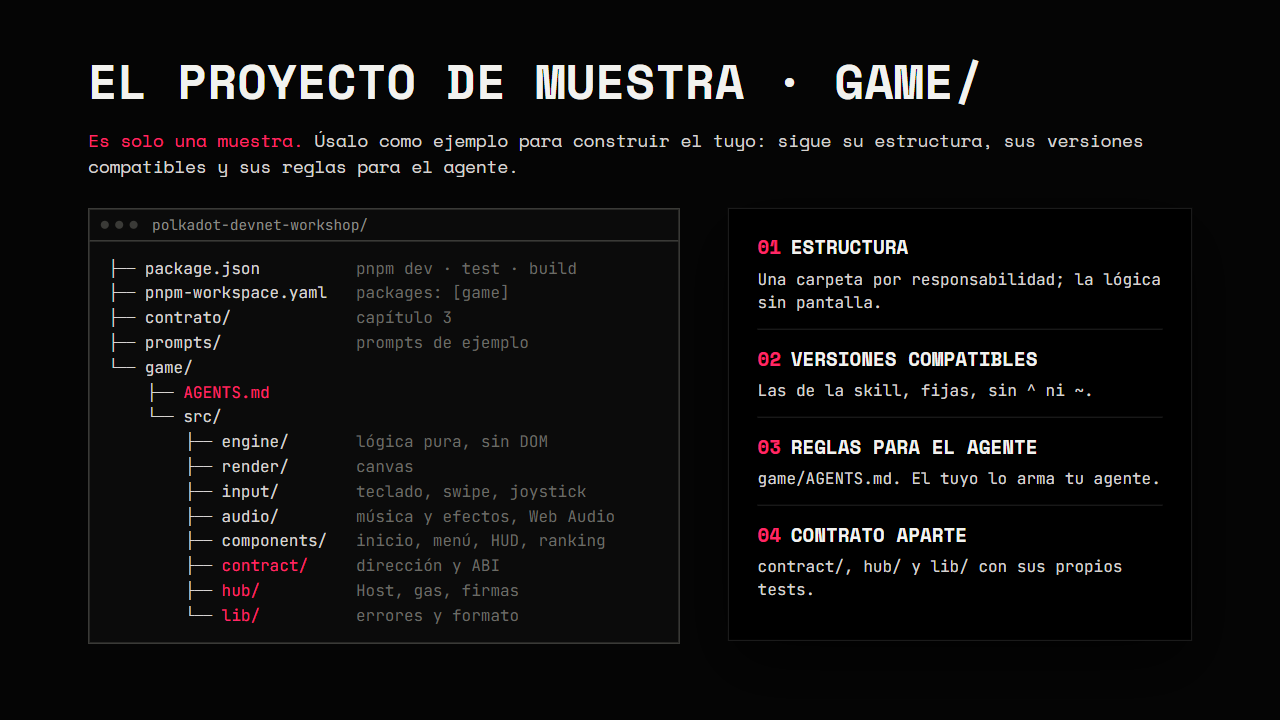
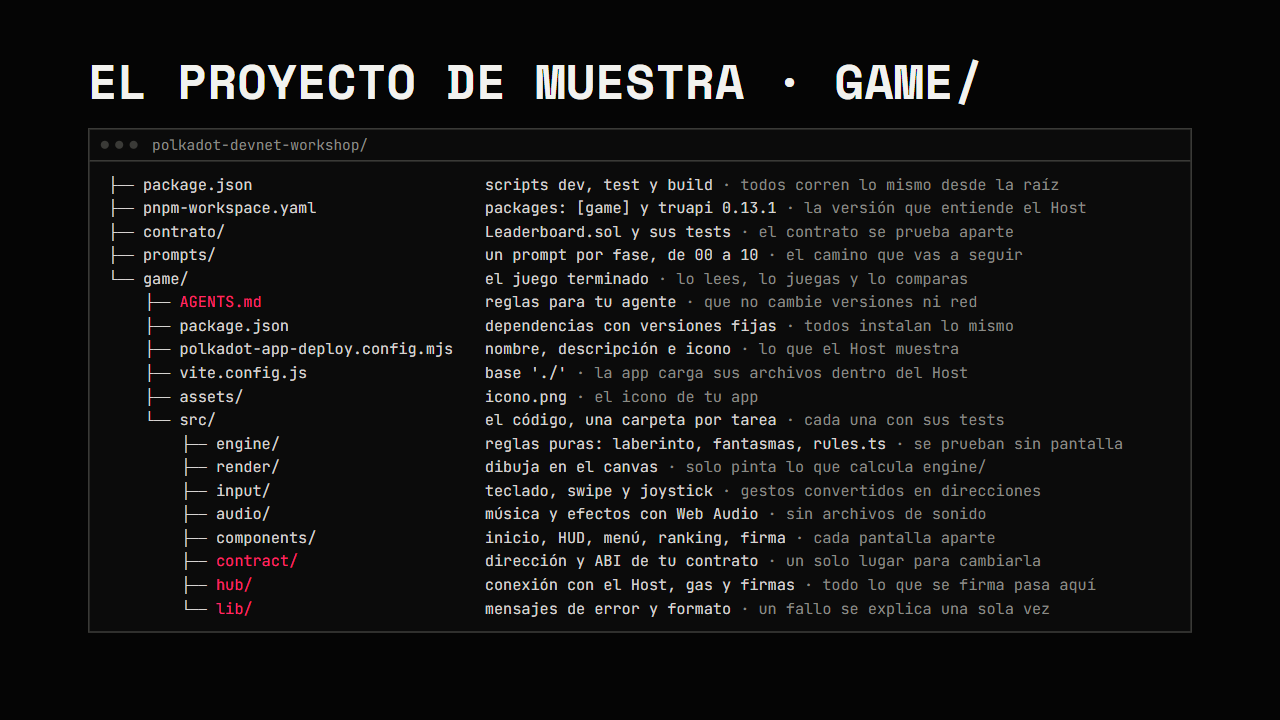
docs(slides): ciclo sin tabla, firma sin quien paga, portada y leer/escribir limpios, sin errores comunes, arbol de la muestra explicado
Verificacion: revisar.mjs 01 7/7, 03 20/20, 04 20/20 (antes 21), 05 17/17 bien, exit 0. Capturas regeneradas: cap1/05-firma, cap3/leer-escribir, cap5/proyecto-de-muestra, cap5/ciclo-de-trabajo. Enlaces locales en contenido/, prompts/ y README: 237, 0 rotos, 0 mojibake. pnpm test: 393/393.

Changed region(s): [[0.0625, 0.1833, 0.9062, 0.8861], [0.9062, 0.8556, 0.9375, 0.8861], [0.9062, 0.2139, 0.9375, 0.2444]]

diff --git a/slides/05-el-juego.html b/slides/05-el-juego.html
@@ -27,6 +27,12 @@
 .j-win .j-bar i { width: 10px; height: 10px; border-radius: 50%; background: #3a3a37; }
 .j-win .j-bar span { margin-left: 10px; font: 18px var(--mono); color: var(--muted); }
 .j-win .j-body { padding: 18px 24px; }
+.j-win .j-tree { padding: 14px 24px; }
+.j-tree > div { display: grid; grid-template-columns: 450px 1fr; column-gap: 20px; font: 19px/1.55 var(--mono); }
+.j-tree .p { white-space: pre; color: #d6d3d1; }
+.j-tree .w { color: #d6d3d1; }
+.j-tree .w i { font-style: normal; color: var(--muted); }
+.j-tree .kw { color: var(--accent); }
 .j-phone { border: 2px solid #d6d3d1; border-radius: 42px; padding: 40px 14px 22px; background: #050505; position: relative; }
 .j-phone::before { content: ''; position: absolute; top: 18px; left: 50%; width: 80px; height: 8px; margin-left: -40px; border-radius: 4px; background: #2a2a2a; }
 .j-phone img { display: block; width: 100%; border-radius: 6px; }
@@ -145,7 +151,6 @@
 .j-mid { position: absolute; left: 280px; top: 230px; width: 300px; text-align: center; }
 .j-mid div { font: 700 48px/1 var(--display); color: var(--accent); }
 .j-mid span { display: block; font: 20px var(--mono); color: #d6d3d1; margin-top: 10px; }
-.j-mini { display: grid; grid-template-columns: 1fr 1fr; column-gap: 18px; row-gap: 10px; margin-top: 18px; font: 19px var(--mono); color: #d6d3d1; }
 
 /* Repaso: flecha de regreso y franja de publicar */
 .j-back { border: 2px solid #8b8b86; border-top: 0; border-radius: 0 0 18px 18px; }
@@ -251,30 +256,29 @@
   <!-- 3 · El proyecto de muestra -->
   <section class="slide grid" data-title="El proyecto de muestra">
     <div class="item" style="left:110px; top:70px;"><div class="h">El proyecto de muestra · game/</div></div>
-    <div class="item lead" style="left:110px; top:160px; width:1380px; font-size:22px;"><span class="j-pink">Es solo una muestra.</span> Úsalo como ejemplo para construir el tuyo: sigue su estructura, sus versiones compatibles y sus reglas para el agente.</div>
-    <div class="item j-win" style="left:110px; top:260px; width:740px;">
+    <div class="item j-win" style="left:110px; top:160px; width:1380px;">
       <div class="j-bar"><i></i><i></i><i></i><span>polkadot-devnet-workshop/</span></div>
-      <div class="j-body code" style="font-size:20px; line-height:1.55;">├── package.json          <span class="cm">pnpm dev · test · build</span>
-├── pnpm-workspace.yaml   <span class="cm">packages: [game]</span>
-├── contrato/             <span class="cm">capítulo 3</span>
-├── prompts/              <span class="cm">prompts de ejemplo</span>
-└── game/
-    ├── <span class="kw">AGENTS.md</span>
-    └── src/
-        ├── engine/       <span class="cm">lógica pura, sin DOM</span>
-        ├── render/       <span class="cm">canvas</span>
-        ├── input/        <span class="cm">teclado, swipe, joystick</span>
-        ├── audio/        <span class="cm">música y efectos, Web Audio</span>
-        ├── components/   <span class="cm">inicio, menú, HUD, ranking</span>
-        ├── <span class="kw">contract/</span>     <span class="cm">dirección y ABI</span>
-        ├── <span class="kw">hub/</span>          <span class="cm">Host, gas, firmas</span>
-        └── <span class="kw">lib/</span>          <span class="cm">errores y formato</span></div>
-    </div>
-    <div class="panel" style="left:910px; top:260px; width:580px; padding:30px 36px;">
-      <div class="j-blk"><b><i>01</i>Estructura</b><p>Una carpeta por responsabilidad; la lógica sin pantalla.</p></div>
-      <div class="j-blk"><b><i>02</i>Versiones compatibles</b><p>Las de la skill, fijas, sin ^ ni ~.</p></div>
-      <div class="j-blk"><b><i>03</i>Reglas para el agente</b><p>game/AGENTS.md. El tuyo lo arma tu agente.</p></div>
-      <div class="j-blk"><b><i>04</i>Contrato aparte</b><p>contract/, hub/ y lib/ con sus propios tests.</p></div>
+      <div class="j-body j-tree">
+        <div><span class="p">├── package.json</span><span class="w">scripts dev, test y build <i>· todos corren lo mismo desde la raíz</i></span></div>
+        <div><span class="p">├── pnpm-workspace.yaml</span><span class="w">packages: [game] y truapi 0.13.1 <i>· la versión que entiende el Host</i></span></div>
+        <div><span class="p">├── contrato/</span><span class="w">Leaderboard.sol y sus tests <i>· el contrato se prueba aparte</i></span></div>
+        <div><span class="p">├── prompts/</span><span class="w">un prompt por fase, de 00 a 10 <i>· el camino que vas a seguir</i></span></div>
+        <div><span class="p">└── game/</span><span class="w">el juego terminado <i>· lo lees, lo juegas y lo comparas</i></span></div>
+        <div><span class="p">    ├── <span class="kw">AGENTS.md</span></span><span class="w">reglas para tu agente <i>· que no cambie versiones ni red</i></span></div>
+        <div><span class="p">    ├── package.json</span><span class="w">dependencias con versiones fijas <i>· todos instalan lo mismo</i></span></div>
+        <div><span class="p">    ├── polkadot-app-deploy.config.mjs</span><span class="w">nombre, descripción e icono <i>· lo que el Host muestra</i></span></div>
+        <div><span class="p">    ├── vite.config.js</span><span class="w">base './' <i>· la app carga sus archivos dentro del Host</i></span></div>
+        <div><span class="p">    ├── assets/</span><span class="w">icono.png <i>· el icono de tu app</i></span></div>
+        <div><span class="p">    └── src/</span><span class="w">el código, una carpeta por tarea <i>· cada una con sus tests</i></span></div>
+        <div><span class="p">        ├── engine/</span><span class="w">reglas puras: laberinto, fantasmas, rules.ts <i>· se prueban sin pantalla</i></span></div>
+        <div><span class="p">        ├── render/</span><span class="w">dibuja en el canvas <i>· solo pinta lo que calcula engine/</i></span></div>
+        <div><span class="p">        ├── input/</span><span class="w">teclado, swipe y joystick <i>· gestos convertidos en direcciones</i></span></div>
+        <div><span class="p">        ├── audio/</span><span class="w">música y efectos con Web Audio <i>· sin archivos de sonido</i></span></div>
+        <div><span class="p">        ├── components/</span><span class="w">inicio, HUD, menú, ranking, firma <i>· cada pantalla aparte</i></span></div>
+        <div><span class="p">        ├── <span class="kw">contract/</span></span><span class="w">dirección y ABI de tu contrato <i>· un solo lugar para cambiarla</i></span></div>
+        <div><span class="p">        ├── <span class="kw">hub/</span></span><span class="w">conexión con el Host, gas y firmas <i>· todo lo que se firma pasa aquí</i></span></div>
+        <div><span class="p">        └── <span class="kw">lib/</span></span><span class="w">mensajes de error y formato <i>· un fallo se explica una sola vez</i></span></div>
+      </div>
     </div>
   </section>
 
@@ -406,8 +410,7 @@
   <!-- 11 · El ciclo de trabajo -->
   <section class="slide flat" data-title="El ciclo de trabajo">
     <div class="item" style="left:110px; top:70px;"><div class="h">El ciclo de trabajo</div></div>
-    <div class="item lead" style="left:110px; top:160px; width:1380px; font-size:22px;">Sirve para este juego y para tu app del hackatón.</div>
-    <div class="item j-ring" style="left:110px; top:250px; width:860px; height:560px;">
+    <div class="item j-ring" style="left:305px; top:165px; width:860px; height:560px; transform:scale(1.15); transform-origin:0 0;">
       <svg viewBox="0 0 860 560" width="860" height="560" aria-hidden="true">
         <defs><marker id="j-arr" viewBox="0 0 10 10" refX="8" refY="5" markerWidth="7" markerHeight="7" orient="auto"><path d="M0 0L10 5L0 10z" fill="#d6d3d1"/></marker></defs>
         <g fill="none" stroke="#8b8b86" stroke-width="2.5">
@@ -424,18 +427,6 @@
       <div class="j-node" style="left:134px; top:416px;"><i>04</i><b>Bugs + cambios</b></div>
       <div class="j-node pink" style="left:25px; top:170px;"><i>05</i><b>Commit</b></div>
       <div class="j-mid"><div>↻</div><span>repite hasta terminar</span></div>
-    </div>
-    <div class="panel" style="left:1000px; top:250px; width:490px; padding:28px 30px;">
-      <div class="j-label">Ejemplo: así se reparte este juego en fases</div>
-      <div class="j-mini" style="font-size:18px;">
-        <span>00 Define tu juego</span><span>06 Contrato</span>
-        <span>01 Proyecto</span><span class="j-pink">07 Publica</span>
-        <span>02 Laberinto</span><span class="j-pink">08 Récord</span>
-        <span>03 Bolitas</span><span>09 Inicio y menú</span>
-        <span>04 Fantasmas</span><span>10 Sonido y música</span>
-        <span>05 Especiales</span><span></span>
-      </div>
-      <div class="j-mut" style="font:18px/1.45 var(--mono); margin-top:18px;">Cada fase, una vuelta del ciclo. Archivos en prompts/.</div>
     </div>
   </section>
 

diff --git a/slides/01-como-funciona.html b/slides/01-como-funciona.html
@@ -301,18 +301,18 @@
     </div>
   </section>
 
-  <!-- 6 · Firmas + quién paga -->
+  <!-- 6 · Así viaja una firma -->
   <section class="slide grid d-big" data-title="Así viaja una firma">
     <div class="item" style="left:110px; top:70px;"><div class="h">Así viaja una firma</div></div>
     <div class="item lead muted" style="left:110px; top:165px; width:1380px; font-size:22px;">Cada transacción se aprueba en tu teléfono, aunque la app tenga <span style="font-family:var(--mono);">ChainSubmit</span>.</div>
 
     <svg class="wires" viewBox="0 0 1600 900" aria-hidden="true">
-      <path d="M432 380 H 498 M488 374 L 498 380 L 488 386"/>
-      <path d="M762 380 H 838 M828 374 L 838 380 L 828 386"/>
-      <path class="pink" d="M1122 380 H 1198 M1188 374 L 1198 380 L 1188 386"/>
+      <path d="M432 470 H 498 M488 464 L 498 470 L 488 476"/>
+      <path d="M762 470 H 838 M828 464 L 838 470 L 828 476"/>
+      <path class="pink" d="M1122 470 H 1198 M1188 464 L 1198 470 L 1188 476"/>
     </svg>
 
-    <div class="item" style="left:110px; top:280px; width:320px;">
+    <div class="item" style="left:110px; top:370px; width:320px;">
       <div class="v-win">
         <div class="v-bar"><i></i><i></i><i></i><span>tu app · sandbox</span></div>
         <div class="v-body" style="padding:28px 24px;">
@@ -322,9 +322,9 @@
       </div>
     </div>
 
-    <div class="item c-box" style="left:500px; top:305px; width:260px; padding:20px 22px;"><b style="font-size:26px;">Host</b><span>la pasa, sin tu llave</span></div>
+    <div class="item c-box" style="left:500px; top:395px; width:260px; padding:20px 22px;"><b style="font-size:26px;">Host</b><span>la pasa, sin tu llave</span></div>
 
-    <div class="item" style="left:840px; top:230px; width:280px;">
+    <div class="item" style="left:840px; top:320px; width:280px;">
       <div class="v-phone" style="height:360px; border-color:var(--accent);">
         <div class="d-k" style="text-align:center;">Polkadot App</div>
         <div class="v-ui-card" style="margin-top:16px;">
@@ -339,14 +339,7 @@
       </div>
     </div>
 
-    <div class="item c-block" style="left:1200px; top:310px; width:290px;"><span class="n">la cadena</span><b>tx firmada</b><span>la recibe y la incluye</span></div>
-
-    <div class="item" style="left:110px; top:675px; width:1380px; display:grid; grid-template-columns:230px 1fr 1fr 1fr; column-gap:24px; align-items:center;">
-      <div class="d-k pink">Quién paga</div>
-      <div class="c-box"><b>Gas / PGAS</b><span>lo cubre el Host</span></div>
-      <div class="c-box"><b>Depósitos</b><span>PAS</span></div>
-      <div class="c-box"><b>Archivos</b><span>cupo de Bulletin</span></div>
-    </div>
+    <div class="item c-block" style="left:1200px; top:400px; width:290px;"><span class="n">la cadena</span><b>tx firmada</b><span>la recibe y la incluye</span></div>
   </section>
 
   <!-- 7 · El mapa -->

diff --git a/slides/04-vibe-coding.html b/slides/04-vibe-coding.html
@@ -120,12 +120,6 @@
 .v-card span { display: block; font: 15px/1.35 var(--mono); color: var(--muted); margin-top: 4px; }
 .v-card.pink { border-color: var(--accent); }
 .v-card.pink b { color: var(--accent); }
-.v-err { border: 1px solid #2a2a2a; border-left: 4px solid var(--accent); background: #000; padding: 26px 28px; }
-.v-err .x { font: 700 24px var(--display); }
-.v-err .x::before { content: '✘  '; color: var(--accent); }
-.v-err .fix { font: 18px/1.5 var(--mono); color: #d6d3d1; margin-top: 18px; padding-top: 16px; border-top: 1px dashed #3a3a37; }
-.v-err .fix::before { content: '→ '; color: var(--muted); }
-.v-err .code { font-size: 18px; white-space: normal; }
 
 /* Piezas de interfaz dentro de una pantalla */
 .v-ui { position: relative; }
@@ -797,23 +791,10 @@ Usa <span class="fn">getScores</span>(offset, limit) para leer a los jugadores.<
     </div>
   </section>
 
-  <!-- 21 · Errores comunes en este stack -->
-  <section class="slide" data-title="Errores comunes en este stack" style="--bgpos: 85% 50%;">
-    <div class="panel" style="left:110px; top:50px; width:1250px; padding:34px 52px 38px;"><div class="h">Errores comunes en este stack</div></div>
-    <div class="item v-cards" style="left:110px; top:230px; width:1380px; grid-template-columns:repeat(3, 1fr); gap:24px;">
-      <div class="v-err"><div class="x">Inventa funciones</div><div class="fix">Solo la ABI y la skill; si no, «no verificado»</div></div>
-      <div class="v-err"><div class="x">Usa otra red</div><div class="fix"><span class="code">chainId 420420417 · devnet_asset_hub</span></div></div>
-      <div class="v-err"><div class="x">Actualiza las versiones</div><div class="fix">No cambies package.json</div></div>
-      <div class="v-err"><div class="x">Usa npm o yarn</div><div class="fix">Solo pnpm</div></div>
-      <div class="v-err"><div class="x">Conecta con getChainAPI()</div><div class="fix"><span class="code">createChainClient + devnet_asset_hub</span></div></div>
-      <div class="v-err"><div class="x pink">.tx() sin .query()</div><div class="fix">Simula primero y muestra el error</div></div>
-    </div>
-  </section>
-
   <div class="progress" id="progress"></div>
   <footer class="foot">
     <a href="../contenido/04-vibe-coding.md">Guía: contenido/04-vibe-coding.md</a>
-    <span><span id="count">01 / 21</span></span>
+    <span><span id="count">01 / 20</span></span>
   </footer>
 </main>
 <script src="assets/deck.js"></script>

diff --git a/slides/03-smart-contracts.html b/slides/03-smart-contracts.html
@@ -201,7 +201,7 @@
   <span class="kw">function</span> <span class="fn">submitScore</span>(uint256 score) …
 }</div>
     </div>
-    <!-- Hoja de contrato con sello, unida a una cadena de bloques -->
+    <!-- Hoja de contrato unida a una cadena de bloques -->
     <div class="item" style="left:1070px; top:90px; width:420px;" aria-hidden="true">
       <svg width="420" height="330" viewBox="0 0 420 330" fill="none" stroke-linecap="round" stroke-linejoin="round" style="display:block;">
         <path d="M105 8 H275 L315 48 V290 H105 Z" fill="#000" stroke="#d6d3d1" stroke-width="3"/>
@@ -215,13 +215,7 @@
         </g>
         <path d="M133 222 H240" stroke="#3a3a37" stroke-width="2" stroke-dasharray="6 6"/>
         <path d="M136 252 c8 -14 14 10 22 -4 s12 8 20 -2" stroke="#d6d3d1" stroke-width="2.5"/>
-        <path d="M133 262 H222" stroke="#6b6b66" stroke-width="2"/>
-        <g fill="#ff2867" stroke="#ff2867" stroke-width="2">
-          <path d="M286 284 L276 318 L288 311 L296 322 L300 292 Z"/>
-          <path d="M314 284 L324 318 L312 311 L304 322 L300 292 Z"/>
-        </g>
-        <circle cx="300" cy="250" r="44" fill="#000" stroke="#ff2867" stroke-width="3"/>
-        <circle cx="300" cy="250" r="34" stroke="#ff2867" stroke-width="2" stroke-dasharray="4 5"/>
+        <path d="M133 262 H287" stroke="#6b6b66" stroke-width="2"/>
         <path d="M210 290 V330" stroke="#6b6b66" stroke-width="2"/>
       </svg>
       <div class="c-chain" style="margin-left:9px;">
@@ -374,7 +368,7 @@ players.<span class="fn">push</span>(<span class="ty">msg.sender</span>);</div><
   <!-- 7 · Leer y escribir -->
   <section class="slide grid" data-title="Leer y escribir">
     <div class="item" style="left:110px; top:80px;"><div class="h">Leer y escribir</div></div>
-    <div class="item c-lane" style="left:110px; top:200px; width:1380px;">
+    <div class="item c-lane" style="left:110px; top:200px; width:1380px; border-top:0;">
       <div class="c-lhd"><b>Leer</b><span class="v-tag" style="color:#9be7b0; border-color:#9be7b0;">firma: no</span><span class="v-tag" style="color:#9be7b0; border-color:#9be7b0;">gas: no</span></div>
       <div class="c-row">
         <div class="c-box" style="width:200px;"><b>Tu app</b><span>pregunta</span></div><span class="c-ar">→</span>

diff --git a/contenido/05-el-juego.md b/contenido/05-el-juego.md
@@ -30,46 +30,36 @@ Qué es una app en el Host y por qué corre en un `.dot`: [capítulo 1](./01-com
 
 ## 2. El proyecto de muestra
 
-![El proyecto de muestra: su estructura en carpetas](../img/cap5/proyecto-de-muestra.png)
+![El proyecto de muestra: qué tiene cada parte y por qué](../img/cap5/proyecto-de-muestra.png)
 
-Es solo una muestra de un proyecto terminado. Úsalo como ejemplo para construir el tuyo: sigue su
-estructura, sus versiones compatibles y sus reglas para el agente (`game/AGENTS.md`). No lo copias;
-construyes el tuyo en tu repo. El juego terminado, Polka-Man, vive en la carpeta `game/` del curso:
-lo lees, lo juegas y lo comparas con el tuyo.
+El juego terminado, Polka-Man, vive en la carpeta `game/` del curso. Úsalo como ejemplo para
+construir el tuyo en tu repo: lo lees, lo juegas y lo comparas con el tuyo. Esto tiene cada parte y
+por qué:
 
-```text
-polkadot-devnet-workshop/
-├── package.json            scripts dev, build, test y test:red (llaman a game/)
-├── pnpm-workspace.yaml     packages: [game] y el override de @parity/truapi 0.13.1
-├── contrato/               Leaderboard.sol y sus pruebas (capítulo 3)
-├── prompts/                prompts de ejemplo, de 00-define-tu-juego.md a revision.md
-└── game/
-    ├── AGENTS.md           reglas para el agente
-    ├── index.html, vite.config.js
-    └── src/
-        ├── engine/         lógica del juego sin pantalla: laberinto, reglas, fantasmas
-        ├── render/         dibuja en el canvas
-        ├── input/          teclado, swipe y joystick
-        ├── audio/          música y efectos con Web Audio, sin archivos
-        ├── components/     inicio, HUD, menú, ranking, fin de partida, username y estados de firma
-        ├── contract/       dirección, ABI y lecturas del contrato
-        ├── hub/            conexión con el Host: cuenta, gas y firmas
-        └── lib/            mensajes de error y formato
-```
+| Archivo o carpeta | Qué tiene | Por qué |
+|---|---|---|
+| `package.json` | Los scripts `dev`, `build`, `typecheck`, `test` y `test:red` (llaman a `game/`) y pnpm 12.6.0 en `devEngines` | Todos corren los mismos comandos desde la raíz |
+| `pnpm-workspace.yaml` | `packages: [game]` y el override de `@parity/truapi` 0.13.1 | Es la versión que entienden Polkadot Desktop 0.1.3 y la Polkadot App del devnet; 0.16 o posterior no |
+| `contrato/` | `Leaderboard.sol`, sus tests en `test/` y el script que genera la ABI | El contrato se prueba aparte, sin la app ([capítulo 3](./03-smart-contracts.md)) |
+| `prompts/` | Un prompt por fase, de `00-define-tu-juego.md` a `10-sonido-y-animaciones.md`, y `revision.md` | Es el camino que sigues, fase por fase |
+| `game/AGENTS.md` | Reglas para el agente: red, versiones, pnpm, reglas del juego, SDK, Vite, secretos y comandos | Para que no cambie versiones ni red |
+| `game/package.json` | Las dependencias con versiones fijas, sin `^` ni `~` | Todos instalan lo mismo: las versiones compatibles de la skill |
+| `game/index.html`, `game/vite.config.js` | La página y Vite con `base: './'` | La app carga sus archivos junto a ella dentro del Host, no desde la raíz |
+| `game/polkadot-app-deploy.config.mjs` | Nombre, descripción, icono y la carpeta `dist/` que se publica | Es lo que el Host muestra de tu app ([capítulo 6](./06-publicar.md)) |
+| `game/assets/` | `icono.png` | El icono de la app |
+| `src/engine/` | Lógica pura: laberinto, movimiento, fantasmas y `rules.ts` con todos los números | Se prueba sin pantalla; cambiar la dificultad es cambiar una línea |
+| `src/render/` | Dibujo en el canvas, animaciones y efectos | Solo pinta lo que calcula `engine/` |
+| `src/input/` | Teclado, swipe y joystick flotante | Convierte gestos y teclas en direcciones |
+| `src/audio/` | Música y efectos 8 bits con Web Audio y las preferencias de sonido | Sin archivos de audio |
+| `src/components/` | Inicio, HUD, menú, ranking, fin de partida, username y estados de firma | Cada pantalla por separado |
+| `src/contract/` | Dirección (`config.ts`), ABI y lecturas del contrato por ETH-RPC | Cambias la dirección de tu contrato en un solo lugar |
+| `src/hub/` | Conexión con el Host: cuenta, gas y firmas | Todo lo que se firma pasa por aquí |
+| `src/lib/` | Mensajes de error de las transacciones, formato y la regla del username | Un fallo se explica en un solo lugar |
 
-Por qué está así:
-
-- **La lógica no toca la pantalla.** `engine/` solo calcula; así se prueba con tests sin abrir el
-  navegador.
-- **Todos los números en un archivo.** Vidas, velocidades y puntaje viven en `engine/rules.ts`.
-  Cambiar la dificultad es cambiar una línea.
-- **El laberinto es texto.** Un arreglo de filas con `#` para paredes, `.` para bolitas y `o` para
-  bolitas especiales. Se lee a ojo, la IA lo edita sin errores y el diff se entiende. Un test revisa
-  que no haya callejones sin salida, porque los fantasmas no dan media vuelta.
-- **La dificultad sube por ronda con tope.** Los fantasmas van 5 % más rápido cada ronda, pero
-  nunca tan rápido como el jugador: con control táctil sería imposible escapar en una recta.
-- **El contrato va aparte y con tests.** `contract/`, `hub/` y `lib/` tienen sus propias pruebas con
-  datos falsos, sin red.
+El laberinto es texto en `engine/maze.ts`: `#` para paredes, `.` para bolitas y `o` para bolitas
+especiales. Se lee a ojo, la IA lo edita sin errores y el diff se entiende. Cada carpeta de `src/`
+tiene sus tests al lado (`*.test.ts`); `pnpm test` no usa la red y las pruebas de red van aparte en
+`pnpm test:red`.
 
 `game/AGENTS.md` le dice al agente qué puede tocar en la muestra
 ([capítulo 4, sección 10](./04-vibe-coding.md#10-agentsmd)). Tu `AGENTS.md` lo arma tu agente en la
@@ -308,8 +298,8 @@ Así se reparte este juego en fases. Cada fase es una vuelta del ciclo de la
 | 10 | [Sonido, música y animaciones](../prompts/10-sonido-y-animaciones.md) | Animaciones, efectos 8 bits y música original con Música y Efectos | Navegador | 30–40 min |
 
 En total, de 4.5 a 6 horas (estimado: la tabla suma de 265 a 345 min; aún no se mide en un ensayo). Un commit y un `git push` por fase.
-Los errores típicos de la IA en este stack están en el
-[capítulo 4, sección 15](./04-vibe-coding.md#15-errores-comunes-de-la-ia-en-este-stack).
+Antes de cada commit, revisa lo que te entrega la IA con la lista del
+[capítulo 4, sección 14](./04-vibe-coding.md#14-cómo-supervisar-a-la-ia).
 
 ### Fase 1 · Tu proyecto
 
@@ -625,7 +615,7 @@ Sube por esta escalera, en orden:
   ([sección 8](#probar-dentro-del-host-publica-en-tu-dot)). El Host no se conecta a `localhost`.
 - **La IA cambió `package.json`, `pnpm-lock.yaml` o `pnpm-workspace.yaml`.** Descarta esos cambios
   con `git restore package.json pnpm-lock.yaml pnpm-workspace.yaml` y pídele que no los toque
-  ([capítulo 4, sección 15](./04-vibe-coding.md#15-errores-comunes-de-la-ia-en-este-stack)).
+  ([capítulo 4, sección 14](./04-vibe-coding.md#14-cómo-supervisar-a-la-ia)).
 - **Los tests de una fase anterior fallan después de un prompt.** No dejes que la IA los borre o
   los salte. Pídele la causa y que corrija el código.
 - **`pnpm dev` dice que el puerto 5173 está ocupado.** Cierra la otra

diff --git a/contenido/04-vibe-coding.md b/contenido/04-vibe-coding.md
@@ -748,36 +748,6 @@ Después, antes de cada commit:
 - [ ] **Puedes volver atrás:** hiciste commit antes de cada paso
       ([capítulo 2](./02-entorno.md#tu-primer-commit)).
 
-En este proyecto, revisa además los errores de la [sección 15](#15-errores-comunes-de-la-ia-en-este-stack).
-
----
-
-## 15. Errores comunes de la IA en este stack
-
-| Lo que hace la IA | Por qué falla | Qué pedirle |
-|---|---|---|
-| Inventa funciones del SDK o del contrato | No tiene la ABI ni la documentación | *"Usa solo funciones de la ABI y de la skill; si no existe, dime 'no verificado'."* |
-| Usa otra red: `paseo`, Paseo Next v2, PassetHub 420420422 o Asset Hub Next 1500 | Copia ejemplos de otras redes | *"Solo Products Devnet: chainId `420420417` y `devnet_asset_hub`."* |
-| "Actualiza" las versiones fijas | Con `@parity/product-sdk` 0.28 o posterior, Polkadot Desktop 0.1.3 registra `Transport error` y `unsupported frame (0, 0)` sin parar | *"No cambies versiones de `package.json`."* |
-| Quita el override de `@parity/truapi` en `pnpm-workspace.yaml` | Con `@parity/truapi` 0.16 o posterior, Polkadot Desktop 0.1.3 registra los mismos errores | *"Deja el override de `@parity/truapi` 0.13.1 en `pnpm-workspace.yaml`."* |
-| Usa npm o yarn | El proyecto declara pnpm en `devEngines` y falla con `EBADDEVENGINES` | *"Solo pnpm."* |
-| Conecta con `getChainAPI()` | La app se queda esperando en Polkadot Desktop 0.1.3 | *"Conecta con `createChainClient` y `devnet_asset_hub`."* |
-| Cambia el pragma o propone PolkaVM, `resolc`, Hardhat o Foundry | Sigue indicaciones de otras skills | *"`pragma solidity 0.8.28;`, Remix y MetaMask."* |
-| Escribe OpenZeppelin 4 (`_beforeTokenTransfer`, `Ownable()` sin argumento) | El proyecto usa OpenZeppelin 5.6.1 | *"Usa OpenZeppelin 5: `_update` y `Ownable(msg.sender)`."* |
-| Olvida `base: './'` en Vite | El bundle pide sus archivos desde la raíz y no junto a la app | *"Pon `base: './'` en `vite.config`."* |
-| Pide varias firmas a la vez | El Host atiende una a la vez; la segunda nunca llega al teléfono | *"Una firma a la vez; espera a que termine la anterior."* |
-| Llama `.tx()` sin `.query()` | El revert solo aparece al firmar | *"Simula con `.query()` y muestra el error antes de pedir la firma."* |
-
-Fuentes: [`errores-comunes.md`](https://github.com/BrandonFilth/polkadot-products-devnet/blob/main/skills/polkadot-products-devnet/references/errores-comunes.md),
-[`versiones.md`](https://github.com/BrandonFilth/polkadot-products-devnet/blob/main/skills/polkadot-products-devnet/references/versiones.md)
-y [`red-devnet.md`](https://github.com/BrandonFilth/polkadot-products-devnet/blob/main/skills/polkadot-products-devnet/references/red-devnet.md)
-de la skill. Los comportamientos de Polkadot Desktop 0.1.3 de esta tabla salen de pruebas del
-equipo. La muestra funciona en Polkadot Desktop 0.1.3 y en la Polkadot App con estas versiones fijas
-(comprobado por la organización el 2026-10-21). Si tu Desktop es de otra versión, dilo al pedir ayuda.
-
-Si aparece un error que no está aquí, pega el texto exacto y pide que cite su fuente o que diga "no
-verificado".
-
 ---
 
 👉 [Capítulo 5](./05-el-juego.md)

diff --git a/prompts/revision.md b/prompts/revision.md
@@ -1,8 +1,7 @@
 # Prompts de revisión
 
 Prompts cortos para revisar el trabajo del agente. Úsalos en cualquier fase. Antes de cada commit
-sigue la lista del [capítulo 4, sección 14](../contenido/04-vibe-coding.md#14-cómo-supervisar-a-la-ia)
-y revisa los [errores comunes de la sección 15](../contenido/04-vibe-coding.md#15-errores-comunes-de-la-ia-en-este-stack).
+sigue la lista del [capítulo 4, sección 14](../contenido/04-vibe-coding.md#14-cómo-supervisar-a-la-ia).
 
 ## 1. Qué decidió la IA
 
